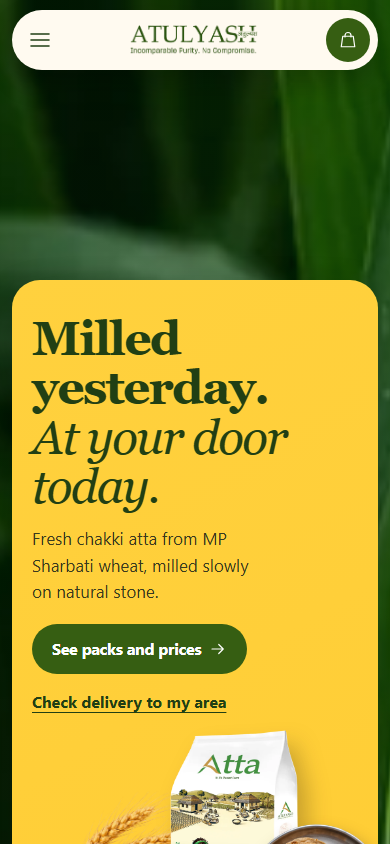
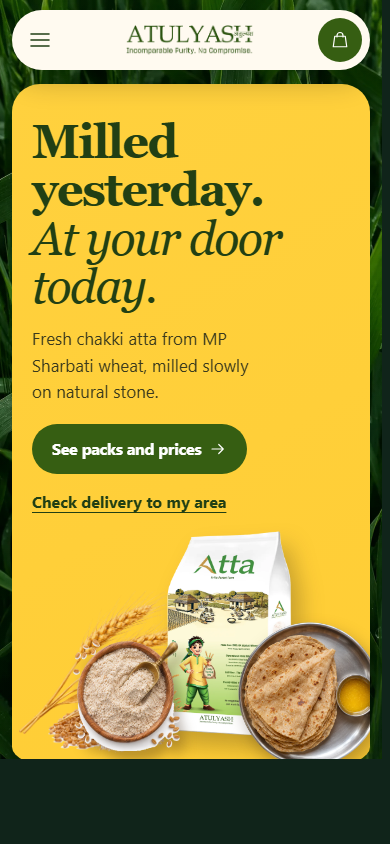
6 Sunlit and 6 Alt: cut the empty field above the hero, drop the glass chip

diff --git a/blends/6-sunlit/index.html b/blends/6-sunlit/index.html
@@ -47,16 +47,15 @@ h2{font-size:clamp(38px,10.5vw,54px)}
 .disc{position:absolute;border-radius:50%;background:radial-gradient(circle at 36% 30%,#FFE27A,var(--sun) 46%,#F2BC1F);box-shadow:0 18px 34px rgba(120,80,0,.22)}
 
 /* ---------- first screen: the field, then the yellow panel ---------- */
-.field{position:relative;height:min(56svh,470px);min-height:380px}
+.field{position:relative;height:250px}
 .bar{position:absolute;z-index:3;top:12px;left:var(--g);right:12px;display:flex;justify-content:space-between;align-items:center}
 .bar .name{display:inline-flex;align-items:center;gap:8px;min-height:44px;font:400 26px/1 "DM Serif Display";color:#fff;text-decoration:none;text-shadow:0 2px 14px rgba(0,0,0,.35)}
 .bar .name img{width:26px}
 .menu>summary{display:flex;align-items:center;justify-content:center;min-height:48px;padding:0 16px;border-radius:99px;font:700 13px/1 "DM Sans";letter-spacing:.1em;color:#fff;background:rgba(255,255,255,.14);box-shadow:inset 0 0 0 1px rgba(255,255,255,.45);-webkit-backdrop-filter:blur(12px);backdrop-filter:blur(12px)}
 .menu>nav{border-radius:20px}
-.field .chip{position:absolute;left:var(--g);top:84px;padding:10px 14px;border-radius:14px;font:700 13px/1.3 "DM Sans"}
-.field .plate{position:absolute;left:50%;bottom:-70px;width:min(60vw,250px);aspect-ratio:1;transform:translateX(-50%);border-radius:50%;z-index:2;
+.field .plate{position:absolute;left:50%;bottom:-78px;width:min(52vw,210px);aspect-ratio:1;transform:translateX(-50%);border-radius:50%;z-index:2;
   background:radial-gradient(circle at 36% 30%,#fff,#FFF8E2 50%,#F2E7C4);box-shadow:0 24px 40px rgba(0,0,0,.28),inset 0 0 0 1px rgba(160,120,20,.18)}
-.field .pk{position:absolute;left:50%;bottom:-54px;width:min(42vw,176px);transform:translateX(-50%);z-index:3;filter:drop-shadow(0 18px 20px rgba(0,0,0,.3))}
+.field .pk{position:absolute;left:50%;bottom:-62px;width:min(36vw,150px);transform:translateX(-50%);z-index:3;filter:drop-shadow(0 18px 20px rgba(0,0,0,.3))}
 .hero{padding:96px 20px 28px}
 .hero h1{font-size:clamp(46px,13vw,72px)}
 .hero h1 em{display:block}
@@ -124,8 +123,7 @@ form label{display:block}
   :root{--g:48px}
   .field{height:260px;min-height:0}
   .bar{max-width:1180px;margin:0 auto;left:48px;right:48px}
-  .field .chip{left:max(48px,calc(50% - 590px))}
-  .field .plate{left:auto;right:max(48px,calc(50% - 590px));transform:none;width:320px;bottom:-150px}
+    .field .plate{left:auto;right:max(48px,calc(50% - 590px));transform:none;width:320px;bottom:-150px}
   .field .pk{left:auto;right:calc(max(48px,calc(50% - 590px)) + 70px);transform:none;width:200px;bottom:-110px}
   .panel{max-width:1180px;margin-left:auto;margin-right:auto}
   .hero,.close,.packs{padding-left:56px;padding-right:56px}
@@ -152,7 +150,6 @@ form label{display:block}
       <a class="name" href="#top"><img src="../img/mark-white.png" alt="" width="228" height="202">Atulyash</a>
       <details class="menu" data-menu><summary>MENU</summary><nav class="gl" aria-label="Main"><a href="#packs">Packs and prices</a><a href="#mani-h">Why we question atta</a><a href="#way-h">The Atulyash way</a><a href="#pin">Check delivery</a></nav></details>
     </header>
-    <span class="chip glass">MP Sharbati wheat<br>Milled on natural stone</span>
     <span class="plate" aria-hidden="true"></span>
     <img class="pk" src="../img/pack.webp" alt="Atulyash 2 kg pack" width="900" height="1334">
   </div>

diff --git a/blends/6-alt/index.html b/blends/6-alt/index.html
@@ -47,7 +47,7 @@ svg{flex:none}
 .mast-order span{position:absolute;width:1px;height:1px;overflow:hidden;clip:rect(0 0 0 0)}
 
 /* ---------- hero: yellow ---------- */
-.field-gap{height:clamp(120px,24svh,210px)}
+.field-gap{height:14px}
 .hero{padding:34px 20px 0;overflow:hidden}
 .hero h1{max-width:12ch;font-size:clamp(44px,12.4vw,64px)}
 .hero h1 em{display:block}
@@ -133,7 +133,7 @@ form label{display:block;font-weight:700;color:var(--ink)}
   .mast-order{width:auto;padding:0 18px;border-radius:99px}
   .mast-order span{position:static;width:auto;height:auto;clip:auto}
   .panel{padding:48px}
-  .field-gap{height:110px}
+  .field-gap{height:28px}
   .hero{display:grid;grid-template-columns:1fr 1fr;align-items:end;padding:56px 48px 0}
   .hero h1{font-size:76px}
   .hero>div:first-child{padding-bottom:56px}
